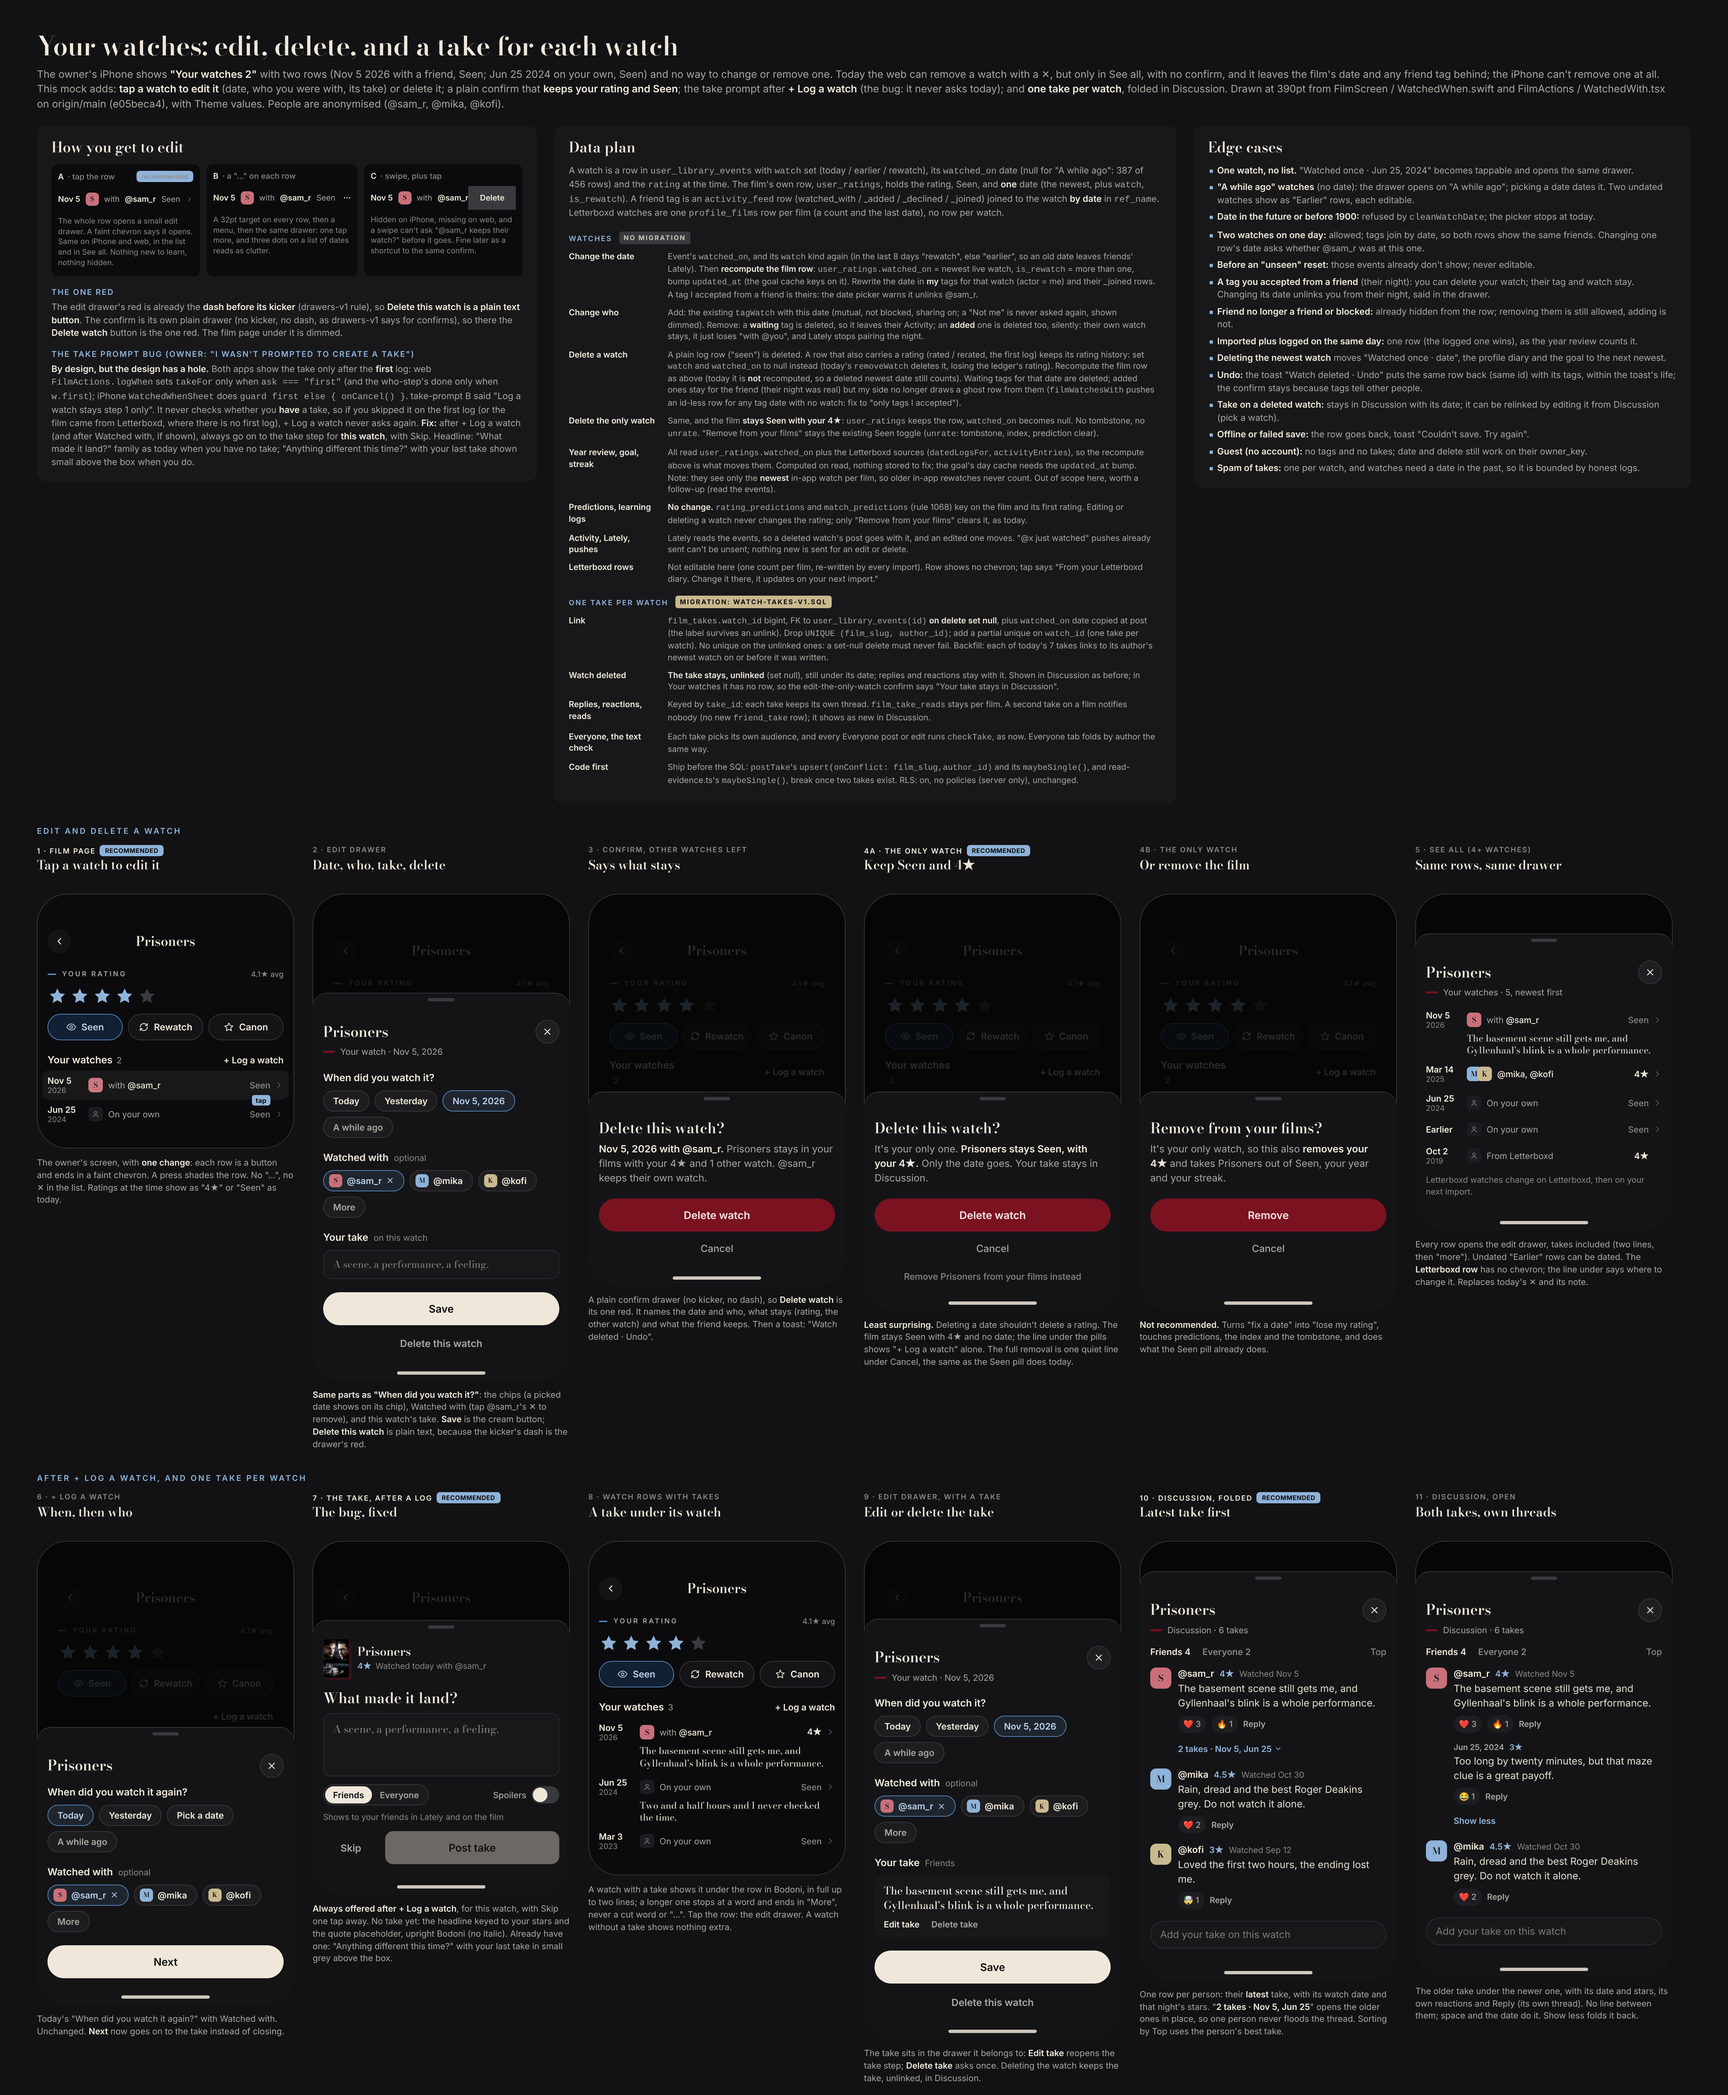
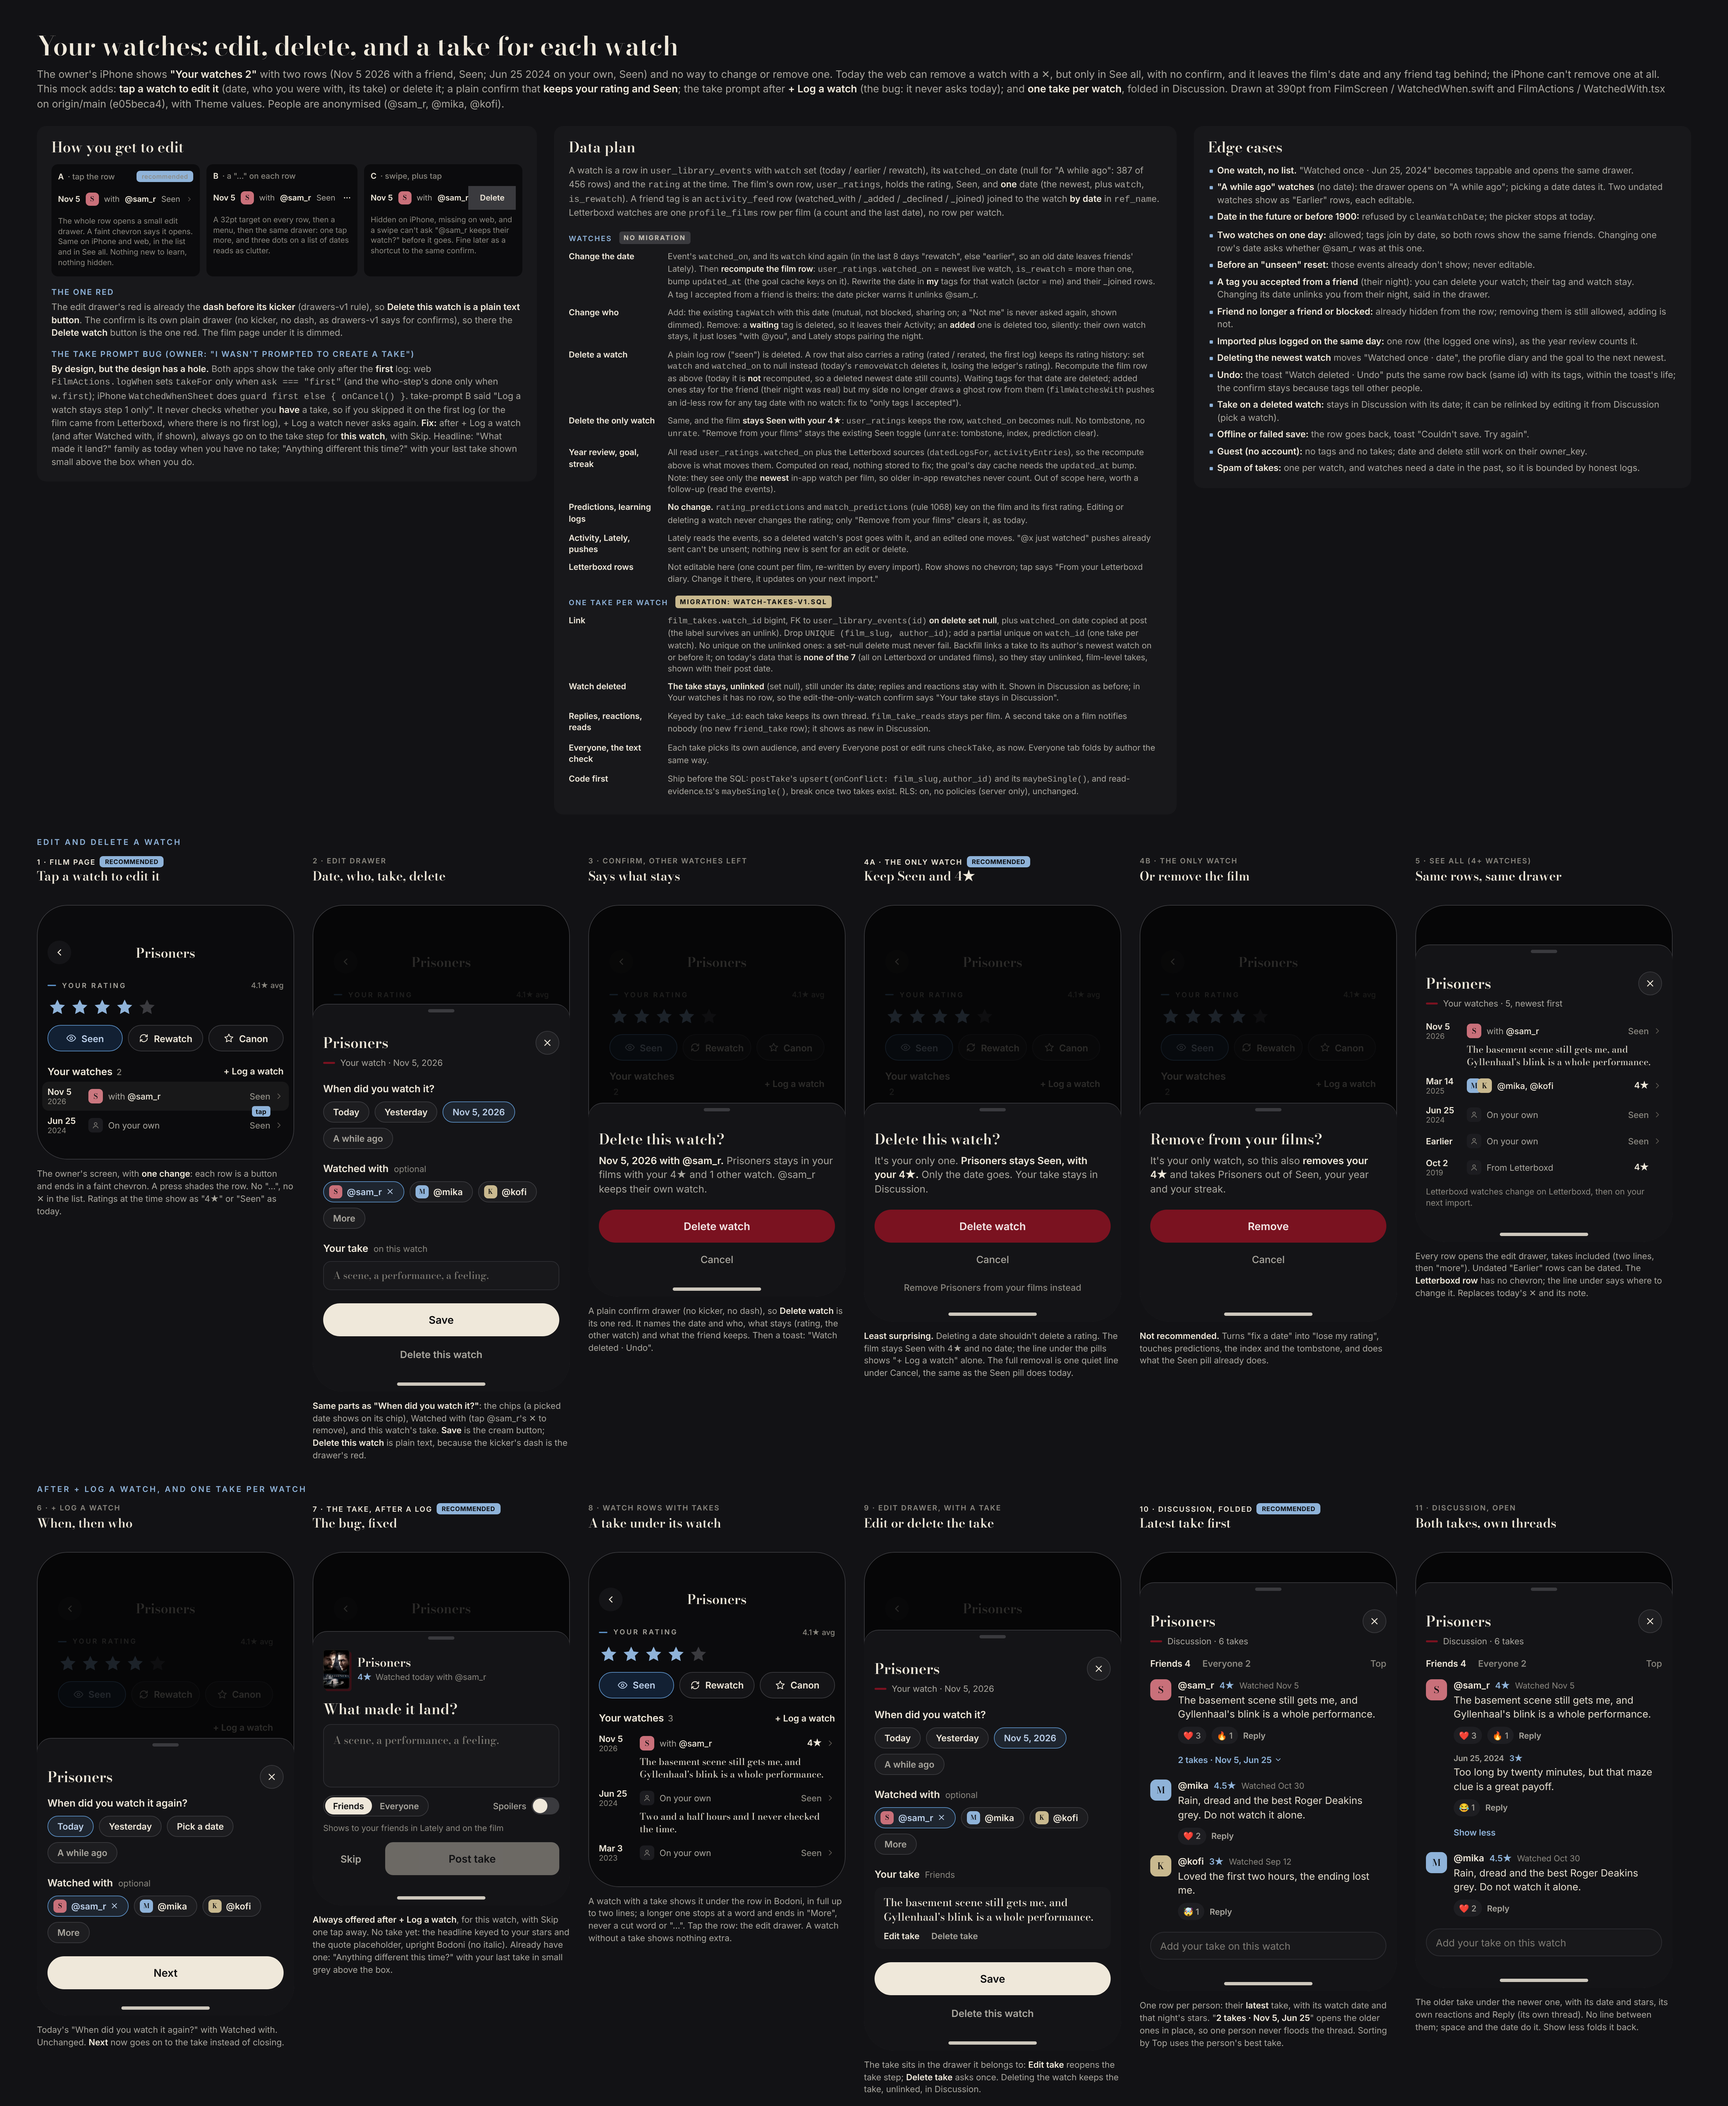
WIP: watch edit / take per watch mock update (agent still finishing)
Claude-Session: https://claude.ai/code/session_013WRDCFXH8nihP92apJAVW7

diff --git a/mockups/journeys/watch-edit-v1.html b/mockups/journeys/watch-edit-v1.html
@@ -194,7 +194,7 @@ table.dp tr.g td{font:600 11px Inter;letter-spacing:1.6px;text-transform:upperca
       <tr><td>Activity, Lately, pushes</td><td>Lately reads the events, so a deleted watch's post goes with it, and an edited one moves. "@x just watched" pushes already sent can't be unsent; nothing new is sent for an edit or delete.</td></tr>
       <tr><td>Letterboxd rows</td><td>Not editable here (one count per film, re-written by every import). Row shows no chevron; tap says "From your Letterboxd diary. Change it there, it updates on your next import."</td></tr>
       <tr class="g"><td colspan="3">One take per watch <span class="mig">migration: watch-takes-v1.sql</span></td></tr>
-      <tr><td>Link</td><td><code>film_takes.watch_id</code> bigint, FK to <code>user_library_events(id)</code> <b>on delete set null</b>, plus <code>watched_on</code> date copied at post (the label survives an unlink). Drop <code>UNIQUE (film_slug, author_id)</code>; add a partial unique on <code>watch_id</code> (one take per watch). No unique on the unlinked ones: a set-null delete must never fail. Backfill: each of today's 7 takes links to its author's newest watch on or before it was written.</td></tr>
+      <tr><td>Link</td><td><code>film_takes.watch_id</code> bigint, FK to <code>user_library_events(id)</code> <b>on delete set null</b>, plus <code>watched_on</code> date copied at post (the label survives an unlink). Drop <code>UNIQUE (film_slug, author_id)</code>; add a partial unique on <code>watch_id</code> (one take per watch). No unique on the unlinked ones: a set-null delete must never fail. Backfill links a take to its author's newest watch on or before it; on today's data that is <b>none of the 7</b> (all on Letterboxd or undated films), so they stay unlinked, film-level takes, shown with their post date.</td></tr>
       <tr><td>Watch deleted</td><td><b>The take stays, unlinked</b> (set null), still under its date; replies and reactions stay with it. Shown in Discussion as before; in Your watches it has no row, so the edit-the-only-watch confirm says "Your take stays in Discussion".</td></tr>
       <tr><td>Replies, reactions, reads</td><td>Keyed by <code>take_id</code>: each take keeps its own thread. <code>film_take_reads</code> stays per film. A second take on a film notifies nobody (no new <code>friend_take</code> row); it shows as new in Discussion.</td></tr>
       <tr><td>Everyone, the text check</td><td>Each take picks its own audience, and every Everyone post or edit runs <code>checkTake</code>, as now. Everyone tab folds by author the same way.</td></tr>
